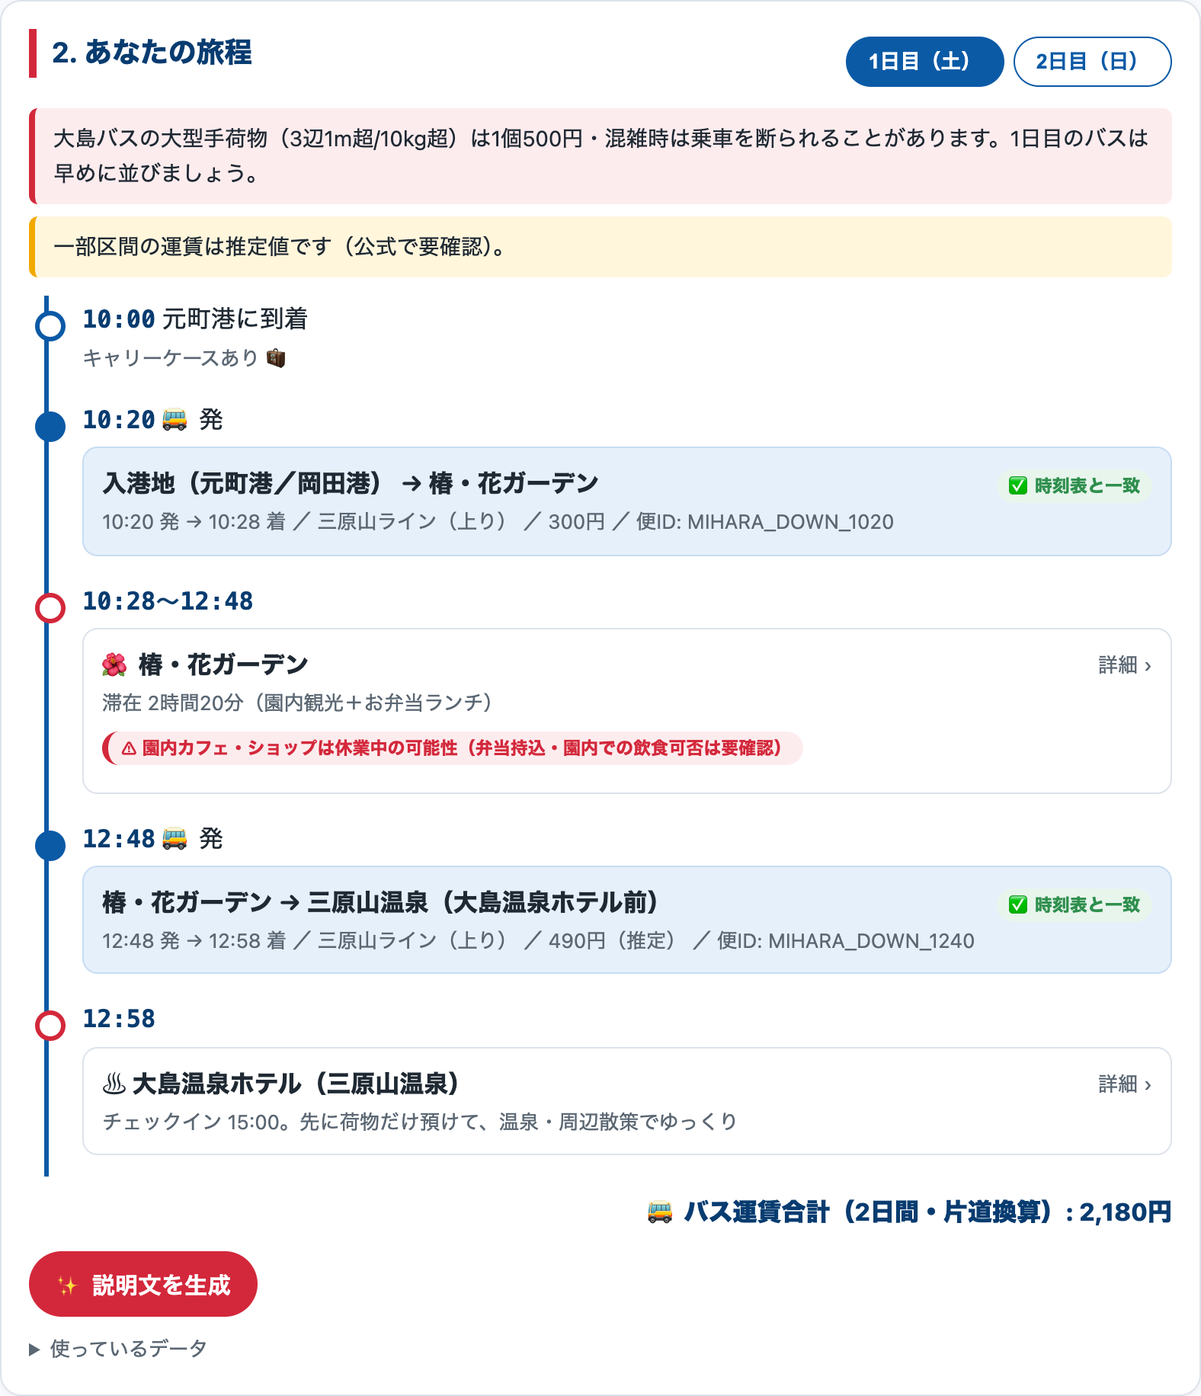
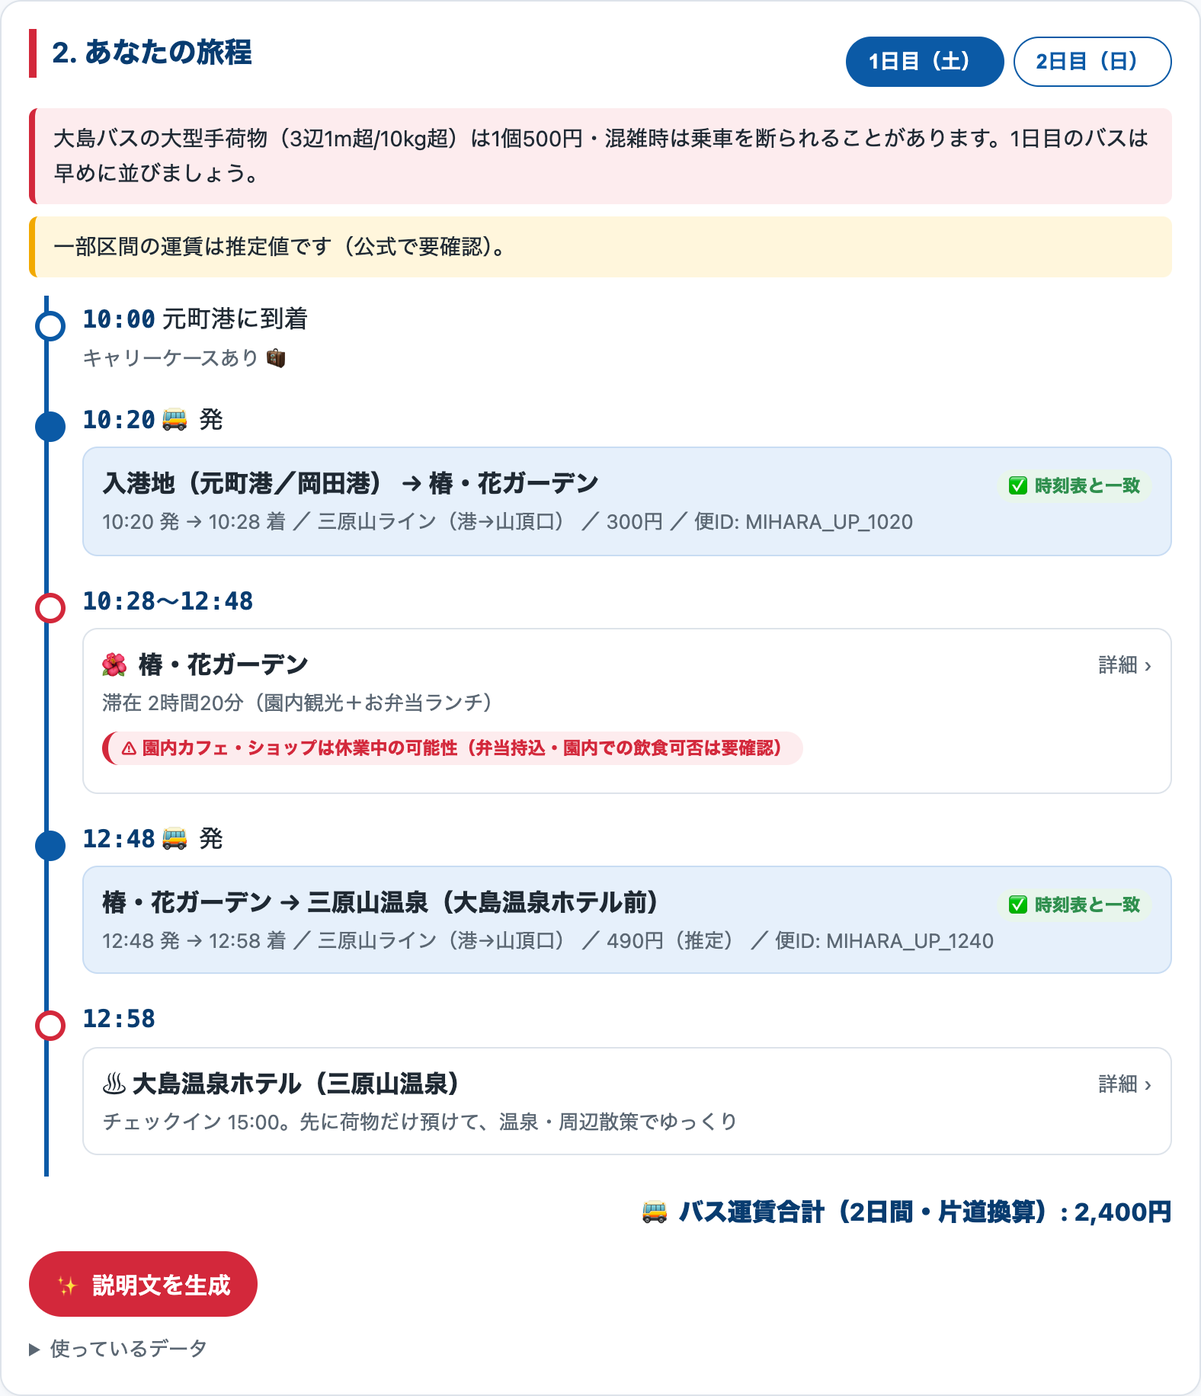
feat(poc)+docs: full Mihara line timetable from official PDF; day-2 plan with luggage pickup; itinerary review for 8/22-23

diff --git a/poc/dist/oshima-smart-course.html b/poc/dist/oshima-smart-course.html
@@ -146,7 +146,7 @@ footer{font-size:.78rem;color:var(--sub);padding:20px 16px 40px}
 <footer class="wrap">SBC.別班連携チーム / 東京都知事杯オープンデータ・ハッカソン 2026 — 時刻表出典: 大島バス（三原山ライン 2026/7/1〜9/30版）</footer>
 <script>
 // ---- generated by scripts/build_standalone.py — 編集は public/ 側で行うこと ----
-window.__DATA__ = {"timetable": {"meta": {"source": "大島バス 路線バス時刻表（三原山ライン・2026/7/1〜9/30版 PDF）を手入力。ODPTのGTFS-JP取得後は scripts/build_gtfs.py で生成したものに差し替える", "sourceUrl": "http://www.oshima-bus.com/rosen-bus.html", "validFrom": "2026-07-01", "validTo": "2026-09-30", "serviceNote": "8月は毎日運行。intermediate=true の時刻は前後の便から推定（要現地確認）", "generatedBy": "manual"}, "stops": {"PORT": {"name": "入港地（元町港／岡田港）", "note": "当日の海況で決まる"}, "TSUBAKI": {"name": "椿・花ガーデン"}, "ONSEN": {"name": "三原山温泉（大島温泉ホテル前）"}, "SUMMIT": {"name": "三原山頂口"}}, "fares": {"PORT-TSUBAKI": {"yen": 300, "confirmed": true}, "PORT-ONSEN": {"yen": 790, "confirmed": true}, "PORT-SUMMIT": {"yen": 1090, "confirmed": true}, "TSUBAKI-ONSEN": {"yen": 490, "confirmed": false}, "TSUBAKI-SUMMIT": {"yen": 790, "confirmed": false}, "ONSEN-SUMMIT": {"yen": 300, "confirmed": false}}, "trips": [{"tripId": "MIHARA_DOWN_1020", "routeName": "三原山ライン（上り）", "serviceId": "8月毎日", "ports": ["motomachi", "okada"], "stops": [{"stopId": "PORT", "dep": "10:20"}, {"stopId": "TSUBAKI", "arr": "10:28", "dep": "10:28"}, {"stopId": "ONSEN", "arr": "10:38", "dep": "10:38"}, {"stopId": "SUMMIT", "arr": "10:45"}]}, {"tripId": "MIHARA_DOWN_1240", "routeName": "三原山ライン（上り）", "serviceId": "8月毎日", "ports": ["motomachi"], "stops": [{"stopId": "PORT", "dep": "12:40"}, {"stopId": "TSUBAKI", "arr": "12:48", "dep": "12:48"}, {"stopId": "ONSEN", "arr": "12:58", "dep": "12:58"}, {"stopId": "SUMMIT", "arr": "13:05"}]}, {"tripId": "MIHARA_UP_0930", "routeName": "三原山ライン（下り）", "serviceId": "8月毎日", "ports": ["motomachi", "okada"], "stops": [{"stopId": "SUMMIT", "dep": "09:30"}, {"stopId": "ONSEN", "arr": "09:37", "dep": "09:37", "intermediate": true}, {"stopId": "TSUBAKI", "arr": "09:47", "dep": "09:47", "intermediate": true}, {"stopId": "PORT", "arr": "09:55"}]}, {"tripId": "MIHARA_UP_1120", "routeName": "三原山ライン（下り）", "serviceId": "8月毎日", "ports": ["motomachi"], "stops": [{"stopId": "SUMMIT", "dep": "11:20"}, {"stopId": "ONSEN", "arr": "11:27", "dep": "11:27", "intermediate": true}, {"stopId": "TSUBAKI", "arr": "11:37", "dep": "11:37", "intermediate": true}, {"stopId": "PORT", "arr": "11:45"}]}, {"tripId": "MIHARA_UP_1330", "routeName": "三原山ライン（下り）", "serviceId": "8月毎日", "ports": ["motomachi", "okada"], "stops": [{"stopId": "SUMMIT", "dep": "13:30"}, {"stopId": "ONSEN", "arr": "13:37", "dep": "13:37", "intermediate": true}, {"stopId": "TSUBAKI", "arr": "13:47", "dep": "13:47", "intermediate": true}, {"stopId": "PORT", "arr": "13:55"}]}]}, "spots": {"TSUBAKI": {"name": "椿・花ガーデン", "emoji": "🌺", "stopId": "TSUBAKI", "luggageScore": 2, "minStayMin": 120, "desc": "港からバス8分。園内は平坦で、荷物を持ったままでも回れる。芝生の大広場あり。", "cautions": ["園内カフェ・ショップは休業中の可能性（弁当持込・園内での飲食可否は要確認）"], "todo": ["弁当持込OK？", "芝生で食べてOK？", "荷物を置ける場所は？"]}, "SUMMIT": {"name": "三原山（山頂口〜火口）", "emoji": "🌋", "stopId": "SUMMIT", "luggageScore": 0, "minStayMin": 150, "desc": "伊豆大島のシンボル。山頂口から火口までは未舗装の遊歩道。身軽で行きたい。", "cautions": ["未舗装トレイル。キャリーケースは現実的でない", "バスの大型手荷物は1個500円・混雑時は乗車拒否あり"], "todo": ["遊歩道でキャリーが困難な写真を撮る"]}, "ONSEN": {"name": "大島温泉ホテル（三原山温泉）", "emoji": "♨", "stopId": "ONSEN", "luggageScore": 2, "minStayMin": 0, "checkIn": "15:00", "desc": "バス停直結。チェックイン前でも荷物を預けられれば、身軽になって三原山へ行ける。", "cautions": [], "todo": ["チェックイン前の荷物預かりは可能か？"]}, "MOTOMACHI": {"name": "元町散策", "emoji": "🏘", "stopId": "PORT", "luggageScore": 1, "minStayMin": 60, "desc": "港周辺の街歩き。坂道が多く、荷物ありだとやや大変。", "cautions": ["坂道"], "todo": []}}};
+window.__DATA__ = {"timetable": {"meta": {"source": "大島バス 路線バス時刻表（2026/7/1〜9/30版 PDF 260612_jikoku.pdf）三原山ライン 主要停留所の全便を転記。ODPTのGTFS-JP取得後は scripts/build_gtfs.py で生成したものに差し替える", "sourceUrl": "http://www.oshima-bus.com/rosen-bus.html", "validFrom": "2026-07-01", "validTo": "2026-09-30", "serviceNote": "8月は全便毎日運行（9月は便により土日祝のみ）。『入港地/出港地』は日中の船の使用港で当日決定。元町港発の便は岡田港入港日には港から乗れない", "generatedBy": "manual"}, "stops": {"PORT": {"name": "入港地（元町港／岡田港）", "note": "当日の海況で決まる"}, "TSUBAKI": {"name": "椿・花ガーデン"}, "ONSEN": {"name": "三原山温泉（大島温泉ホテル前）"}, "SUMMIT": {"name": "三原山頂口"}}, "fares": {"PORT-TSUBAKI": {"yen": 300, "confirmed": true}, "PORT-ONSEN": {"yen": 790, "confirmed": true}, "PORT-SUMMIT": {"yen": 1090, "confirmed": true}, "TSUBAKI-ONSEN": {"yen": 490, "confirmed": false}, "TSUBAKI-SUMMIT": {"yen": 790, "confirmed": false}, "ONSEN-SUMMIT": {"yen": 410, "confirmed": true}}, "trips": [{"tripId": "MIHARA_UP_0820", "routeName": "三原山ライン（港→山頂口）", "serviceId": "8月毎日", "ports": ["motomachi"], "stops": [{"stopId": "PORT", "dep": "08:20"}, {"stopId": "TSUBAKI", "arr": "08:28", "dep": "08:28"}, {"stopId": "ONSEN", "arr": "08:38", "dep": "08:38"}, {"stopId": "SUMMIT", "arr": "08:45"}]}, {"tripId": "MIHARA_UP_1020", "routeName": "三原山ライン（港→山頂口）", "serviceId": "8月毎日", "ports": ["motomachi", "okada"], "stops": [{"stopId": "PORT", "dep": "10:20"}, {"stopId": "TSUBAKI", "arr": "10:28", "dep": "10:28"}, {"stopId": "ONSEN", "arr": "10:38", "dep": "10:38"}, {"stopId": "SUMMIT", "arr": "10:45"}]}, {"tripId": "MIHARA_UP_1240", "routeName": "三原山ライン（港→山頂口）", "serviceId": "8月毎日", "ports": ["motomachi"], "stops": [{"stopId": "PORT", "dep": "12:40"}, {"stopId": "TSUBAKI", "arr": "12:48", "dep": "12:48"}, {"stopId": "ONSEN", "arr": "12:58", "dep": "12:58"}, {"stopId": "SUMMIT", "arr": "13:05"}]}, {"tripId": "MIHARA_DOWN_0930", "routeName": "三原山ライン（山頂口→港）", "serviceId": "8月毎日", "ports": ["motomachi", "okada"], "stops": [{"stopId": "SUMMIT", "dep": "09:30"}, {"stopId": "ONSEN", "arr": "09:37", "dep": "09:37"}, {"stopId": "TSUBAKI", "arr": "09:47", "dep": "09:47"}, {"stopId": "PORT", "arr": "09:55"}]}, {"tripId": "MIHARA_DOWN_1120", "routeName": "三原山ライン（山頂口→元町港）", "serviceId": "8月毎日", "ports": ["motomachi"], "stops": [{"stopId": "SUMMIT", "dep": "11:20"}, {"stopId": "ONSEN", "arr": "11:27", "dep": "11:27"}, {"stopId": "TSUBAKI", "arr": "11:37", "dep": "11:37"}, {"stopId": "PORT", "arr": "11:45"}]}, {"tripId": "MIHARA_DOWN_1330", "routeName": "三原山ライン（山頂口→港）", "serviceId": "8月毎日", "ports": ["motomachi", "okada"], "stops": [{"stopId": "SUMMIT", "dep": "13:30"}, {"stopId": "ONSEN", "arr": "13:37", "dep": "13:37"}, {"stopId": "TSUBAKI", "arr": "13:47", "dep": "13:47"}, {"stopId": "PORT", "arr": "13:55"}]}]}, "spots": {"TSUBAKI": {"name": "椿・花ガーデン", "emoji": "🌺", "stopId": "TSUBAKI", "luggageScore": 2, "minStayMin": 120, "desc": "港からバス8分。園内は平坦で、荷物を持ったままでも回れる。芝生の大広場あり。", "cautions": ["園内カフェ・ショップは休業中の可能性（弁当持込・園内での飲食可否は要確認）"], "todo": ["弁当持込OK？", "芝生で食べてOK？", "荷物を置ける場所は？"]}, "SUMMIT": {"name": "三原山（山頂口〜火口）", "emoji": "🌋", "stopId": "SUMMIT", "luggageScore": 0, "minStayMin": 150, "desc": "伊豆大島のシンボル。山頂口から火口までは未舗装の遊歩道。身軽で行きたい。", "cautions": ["未舗装トレイル。キャリーケースは現実的でない", "バスの大型手荷物は1個500円・混雑時は乗車拒否あり"], "todo": ["遊歩道でキャリーが困難な写真を撮る"]}, "ONSEN": {"name": "大島温泉ホテル（三原山温泉）", "emoji": "♨", "stopId": "ONSEN", "luggageScore": 2, "minStayMin": 0, "checkIn": "15:00", "desc": "バス停直結。チェックイン前でも荷物を預けられれば、身軽になって三原山へ行ける。", "cautions": [], "todo": ["チェックイン前の荷物預かりは可能か？"]}, "MOTOMACHI": {"name": "元町散策", "emoji": "🏘", "stopId": "PORT", "luggageScore": 1, "minStayMin": 60, "desc": "港周辺の街歩き。坂道が多く、荷物ありだとやや大変。", "cautions": ["坂道"], "todo": []}}};
 // ---- planner.js ----
 // planner.js — 純粋関数のみ。ブラウザ（ES module）とNode両方で動く。
 // 入力: 時刻表(timetable.json) / スポット表(spots.json) / 港 / 到着時刻 / 荷物有無
@@ -263,17 +263,29 @@ function planTrip({ tt, spots, port = "motomachi", arrival = "10:00", hasLuggage
     }
   }
 
-  // ---- 2日目 ----
-  day2.push({ type: "event", time: "08:30", title: "ホテルにキャリーケースを預ける", note: "身軽になって出発 🎒" });
-  const c1 = nextBus(tt, "ONSEN", "SUMMIT", "09:00", opts);
+  // ---- 2日目: ホテル(荷物預け) → 山頂 → ホテル(荷物回収) → 港 ----
+  const DAY2_READY = "08:20"; // 朝食後、ホテル前バス停に出られる時刻
+  day2.push({ type: "event", time: DAY2_READY, title: "ホテルにキャリーケースを預けて出発", note: "身軽になって三原山へ 🎒" });
+  const c1 = nextBus(tt, "ONSEN", "SUMMIT", DAY2_READY, opts);
   if (!c1) unresolved.push("2日目 三原山温泉→山頂口の便が見つかりません");
   else {
     day2.push(busItem(c1, tt));
     const leave = addMin(c1.arr, spots.SUMMIT.minStayMin);
-    const c2 = nextBus(tt, "SUMMIT", "PORT", leave, opts);
-    day2.push(spotItem("SUMMIT", spots, c1.arr, c2 ? c2.dep : null, "三原山を満喫（火口・裏砂漠など）", false));
-    if (c2) { day2.push(busItem(c2, tt)); day2.push({ type: "event", time: c2.arr, title: "港に到着 → 荷物はホテルから配送 or 一度戻って回収", note: "帰りの船の時刻に合わせて要調整" }); }
-    else unresolved.push("2日目 山頂→港の便が見つかりません");
+    const c2 = nextBus(tt, "SUMMIT", "ONSEN", leave, opts);
+    day2.push(spotItem("SUMMIT", spots, c1.arr, c2 ? c2.dep : null, "三原山を満喫（火口一周・裏砂漠など）", false));
+    if (!c2) unresolved.push("2日目 山頂→三原山温泉（荷物回収）の便が見つかりません");
+    else {
+      day2.push(busItem(c2, tt));
+      const c3 = nextBus(tt, "ONSEN", "PORT", addMin(c2.arr, 20), opts);
+      const wait = c3 ? toMin(c3.dep) - toMin(c2.arr) : null;
+      day2.push(spotItem("ONSEN", spots, c2.arr, c3 ? c3.dep : null,
+        c3 ? `荷物を回収${wait > 40 ? `。港行きまで${Math.floor(wait / 60)}時間${wait % 60}分あるので昼食・温泉・休憩` : ""}` : "荷物を回収", false));
+      if (!c3) unresolved.push("2日目 三原山温泉→港の便が見つかりません（ホテル送迎の有無を確認）");
+      else {
+        day2.push(busItem(c3, tt));
+        day2.push({ type: "event", time: c3.arr, title: "港に到着", note: "帰りの船：大型客船 14:20発→竹芝18:40着（8月毎日・要最終確認）。午後のジェット船は要確認" });
+      }
+    }
   }
 
   const allBuses = [...day1, ...day2].filter((i) => i.type === "bus");

diff --git a/poc/public/js/planner.js b/poc/public/js/planner.js
@@ -113,17 +113,29 @@ export function planTrip({ tt, spots, port = "motomachi", arrival = "10:00", has
     }
   }
 
-  // ---- 2日目 ----
-  day2.push({ type: "event", time: "08:30", title: "ホテルにキャリーケースを預ける", note: "身軽になって出発 🎒" });
-  const c1 = nextBus(tt, "ONSEN", "SUMMIT", "09:00", opts);
+  // ---- 2日目: ホテル(荷物預け) → 山頂 → ホテル(荷物回収) → 港 ----
+  const DAY2_READY = "08:20"; // 朝食後、ホテル前バス停に出られる時刻
+  day2.push({ type: "event", time: DAY2_READY, title: "ホテルにキャリーケースを預けて出発", note: "身軽になって三原山へ 🎒" });
+  const c1 = nextBus(tt, "ONSEN", "SUMMIT", DAY2_READY, opts);
   if (!c1) unresolved.push("2日目 三原山温泉→山頂口の便が見つかりません");
   else {
     day2.push(busItem(c1, tt));
     const leave = addMin(c1.arr, spots.SUMMIT.minStayMin);
-    const c2 = nextBus(tt, "SUMMIT", "PORT", leave, opts);
-    day2.push(spotItem("SUMMIT", spots, c1.arr, c2 ? c2.dep : null, "三原山を満喫（火口・裏砂漠など）", false));
-    if (c2) { day2.push(busItem(c2, tt)); day2.push({ type: "event", time: c2.arr, title: "港に到着 → 荷物はホテルから配送 or 一度戻って回収", note: "帰りの船の時刻に合わせて要調整" }); }
-    else unresolved.push("2日目 山頂→港の便が見つかりません");
+    const c2 = nextBus(tt, "SUMMIT", "ONSEN", leave, opts);
+    day2.push(spotItem("SUMMIT", spots, c1.arr, c2 ? c2.dep : null, "三原山を満喫（火口一周・裏砂漠など）", false));
+    if (!c2) unresolved.push("2日目 山頂→三原山温泉（荷物回収）の便が見つかりません");
+    else {
+      day2.push(busItem(c2, tt));
+      const c3 = nextBus(tt, "ONSEN", "PORT", addMin(c2.arr, 20), opts);
+      const wait = c3 ? toMin(c3.dep) - toMin(c2.arr) : null;
+      day2.push(spotItem("ONSEN", spots, c2.arr, c3 ? c3.dep : null,
+        c3 ? `荷物を回収${wait > 40 ? `。港行きまで${Math.floor(wait / 60)}時間${wait % 60}分あるので昼食・温泉・休憩` : ""}` : "荷物を回収", false));
+      if (!c3) unresolved.push("2日目 三原山温泉→港の便が見つかりません（ホテル送迎の有無を確認）");
+      else {
+        day2.push(busItem(c3, tt));
+        day2.push({ type: "event", time: c3.arr, title: "港に到着", note: "帰りの船：大型客船 14:20発→竹芝18:40着（8月毎日・要最終確認）。午後のジェット船は要確認" });
+      }
+    }
   }
 
   const allBuses = [...day1, ...day2].filter((i) => i.type === "bus");

diff --git a/docs/itinerary/2026-08-22-23-plan.md b/docs/itinerary/2026-08-22-23-plan.md
@@ -1,0 +1,98 @@
+# 8/22（土）〜8/23（日）現地検証 旅程（一人旅・1泊2日）レビュー版
+
+作成 2026-08-16。バス時刻は**大島バス公式時刻表PDF（2026/7/1〜9/30版）三原山ライン**から転記した8月毎日運行便のみ。PoC（`poc/dist/oshima-smart-course.html`）でも同じ結果になることを確認済み。
+
+凡例：✅ 一次ソースで確認済み ／ ❓ 未確認（要電話・要現地） ／ ⚠ 元案からの修正点
+
+---
+
+## 元案の点検結果（先に結論）
+
+| # | 元案 | 判定 | 補足 |
+|---|---|---|---|
+| 1 | 7:50竹芝発 → 9:35大島着 | ✅ 成立（**ジェット船**） | 図解の方に「大型客船」とあるのは誤り。大型客船は夜行（竹芝23:00→翌6:00頃）。ジェット船で統一を |
+| 2 | 10:20港発 → 10:28椿・花ガーデン | ✅ | 入港地（元町/岡田どちらでも）10:20発。8月毎日 |
+| 3 | 12:48椿・花ガーデン発 → 12:58三原山温泉 | ✅ | 元町港12:40始発の便。**岡田港入港日でも椿・花ガーデンからは乗れる** |
+| 4 | 15:00チェックイン | ✅ | 12:58着〜15:00の**約2時間が空く** → 下記「1日目午後」参照 |
+| 5 | 2日目：ホテル → 三原山 → ホテルで荷物回収 → 港 → 東京 | ⚠ **バスで成立するが便が限られる** | ホテル前発の港行き最終は**13:37**。下記2日目案のとおり組めば大型客船14:20に間に合う。ジェット船（午前11:45頃発）には間に合わない |
+| 6 | 大島温泉ホテルは一人でも泊まれる（ChatGPT情報） | ❓ | **電話で確認**（一人泊可否・料金・チェックイン前の荷物預かり・送迎の有無） |
+| 7 | 1日目の昼食・午後 | ❓ | 弁当持込（課題①②）＋午後は下記の選択肢 |
+
+---
+
+## 1日目 8/22（土）
+
+| 時刻 | 行動 | 状態 |
+|---|---|---|
+| 07:50 | 竹芝発 ジェット船 | ✅（乗船券は要予約） |
+| 09:35 | 大島着（元町港 or 岡田港。**当日の海況で決定**） | ✅ |
+| 09:35–10:20 | 港でバス停・時刻表・キャリーケースの写真を撮る（スライド用） | 📷 |
+| **10:20** | 入港地発 三原山ライン 🚌（港→椿 300円） | ✅ |
+| **10:28** | 椿・花ガーデン着 | ✅ |
+| 10:28–12:48 | 園内観光＋弁当ランチ（滞在2時間20分） | ❓ 弁当持込・芝生での飲食可否は要確認（課題①②）。時間の過不足を計測（課題③） |
+| **12:48** | 椿・花ガーデン発 🚌（椿→温泉 推定490円） | ✅ |
+| **12:58** | 三原山温泉（大島温泉ホテル前）着 | ✅ |
+| 12:58–15:00 | **午後の空き約2時間** → 下の選択肢 | ❓ |
+| 15:00 | 大島温泉ホテル チェックイン ♨ | ✅ 一人泊は要確認 |
+
+### 1日目午後（12:58〜15:00）の選択肢
+バスでホテル→山頂口へ上がる午後便は**ない**（次の上りは翌朝8:38）。よって：
+
+- **A. ホテルに荷物を預けて休む**：日帰り入浴／ロビーで待機／周辺散策（椿の森公園・湯場三叉路方面）。いちばん確実 ❓要「チェックイン前の荷物預かり可否」
+- **B. ホテルから徒歩で三原山方面へ**：大島温泉ホテルは三原山「温泉ホテルコース」の登山口とされる（❓要確認：所要・難易度・案内板）。荷物を預けて軽く歩き、15:00までに戻る短時間版
+- **C. 一度港方面へ戻る（非推奨）**：温泉発13:37→港13:55はあるが、戻りの上り便がないため夕方ホテルに帰れない
+
+推奨：**A（＋余裕があればBを短時間）**。現地で「チェックイン前預かり」と「登山口の案内」の2点を確認・撮影する。
+
+---
+
+## 2日目 8/23（日）
+
+| 時刻 | 行動 | 状態 |
+|---|---|---|
+| 〜08:20 | 朝食、**キャリーケースをホテルに預けて**出発 | ❓ 預かり可否 |
+| **08:38** | 三原山温泉発 🚌 → 08:45 三原山頂口（410円） | ✅ 元町港8:20始発便 |
+| 08:45–11:20 | 三原山観光（火口一周コース等）約2時間35分 | 📷 遊歩道でキャリーが困難な証拠写真 |
+| **11:20** | 三原山頂口発 🚌 → 11:27 三原山温泉（410円） | ✅ |
+| 11:27–13:37 | ホテルで荷物回収。**約2時間10分**あるので昼食・入浴・休憩 | ❓ 昼食場所（ホテル or 持参） |
+| **13:37** | 三原山温泉発 🚌 → **13:55 出港地**着（790円） | ✅ **ホテル前発の港行き最終便** |
+| 14:20 | 大型客船 大島発 → 18:40 竹芝着 | ✅ 8月毎日（8/26・31除く）。**8/23の使用港と最終時刻は東海汽船で要確認** |
+
+- 別案：三原山をもっと短く → 山頂口9:30発の下り（温泉9:37）に乗り、荷物回収後 13:37 まで滞在。または上りをやめてホテル周辺だけにする場合も帰りは同じ13:37便
+- ⚠ 午前のジェット船（大島11:45頃発→竹芝13:40）は、荷物回収→港のバスがないため**成立しない**（ホテル送迎があれば別 ❓）
+- 志田健一さんは23日午後に現地参加予定 → 13:55港着以降に合流するなら、船を1本遅らせる（午後のジェット船の有無 ❓要確認）か、港で短時間
+
+---
+
+## 電話で確認するリスト（今週中）
+
+**大島温泉ホテル**
+- [ ] 一人泊の可否・料金（8/22）
+- [ ] チェックイン前（12:58頃）に荷物を預けられるか／チェックアウト後（〜13:37）に預けられるか
+- [ ] 港への送迎バスの有無と時刻（あれば2日目の帰路が広がる）
+- [ ] 日帰り入浴・昼食の可否
+
+**椿・花ガーデン**（課題①②）
+- [ ] 弁当の持込可否・園内（芝生広場）での飲食可否
+- [ ] 現在のカフェ・ショップの営業状況
+- [ ] キャリーケースを置ける場所
+
+**東海汽船**
+- [ ] 8/22 竹芝7:50便・8/23 大島14:20便の運航と使用港
+- [ ] 8/23 午後のジェット船の有無
+
+---
+
+## 現地で撮る写真（スライド・動画用）
+1. 港に降りた直後のキャリーケース＋バス停＋時刻表
+2. バス車内の手荷物ルール掲示（あれば）
+3. 椿・花ガーデン：入口・芝生広場・弁当を食べる場所
+4. 三原山温泉バス停とホテル入口（荷物を預ける場面）
+5. 三原山遊歩道（未舗装）— キャリーケースが無理なことが一目でわかる構図
+
+---
+
+## 出典
+- 大島バス 路線バス時刻表 2026/7/1〜9/30（三原山ライン）http://www.oshima-bus.com/rosen-bus.html （PDF: files/260612_jikoku.pdf）
+- 大島バス 手荷物規定 http://www.oshima-bus.com/files/tenimotsu.pdf
+- 東海汽船 時刻表 https://www.tokaikisen.co.jp/boarding/timetable/

diff --git a/README.md b/README.md
@@ -64,7 +64,7 @@
 ### 【2日目・日曜】身軽になって三原山へ
 1. ホテルにキャリーケースを預ける
 2. 身軽な状態で「三原山」の大自然へ！（三原山温泉→山頂口 バスあり）
-3. 帰りは山頂口 9:30 / 13:30発 → 出港地 9:55 / 13:55着（✅ 8月ダイヤ）
+3. ホテル前08:38発の上りで山頂口へ → 11:20下りでホテルに戻り荷物回収 → **13:37温泉発（港行き最終）→ 13:55港着** → 大型客船14:20発（✅ 公式時刻表。詳細は docs/itinerary/2026-08-22-23-plan.md）
 
 ---
 
